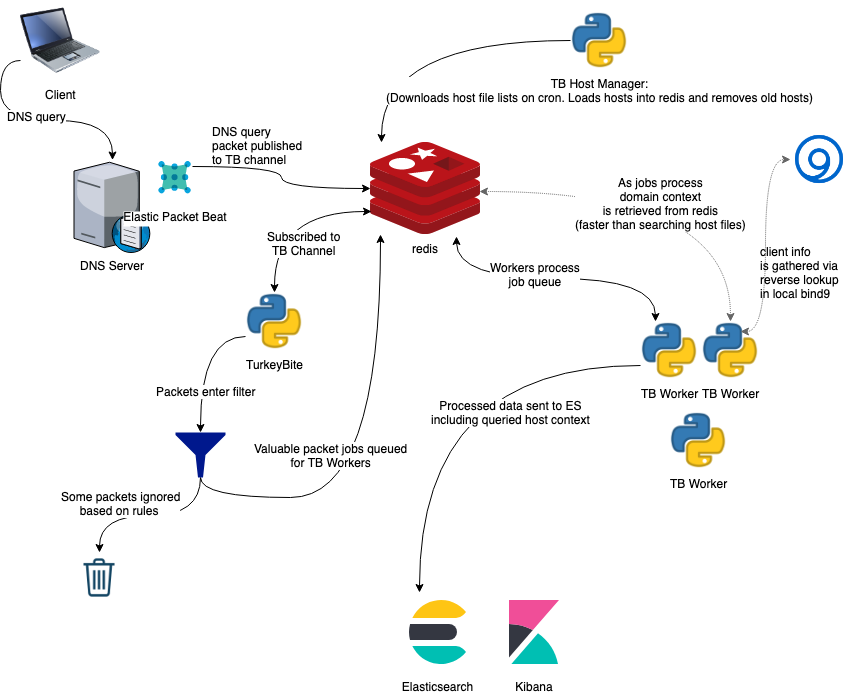
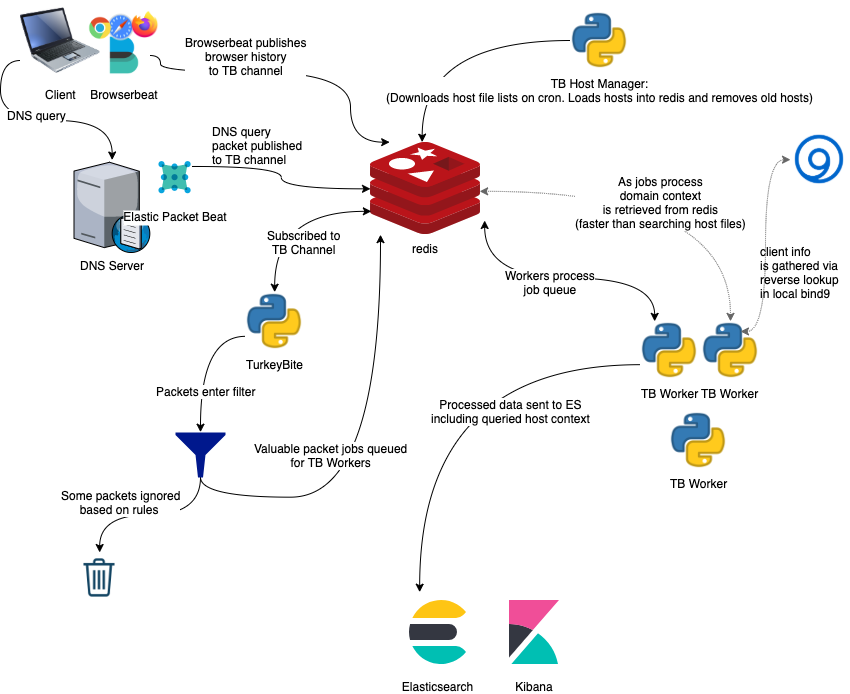
added support for browserbeat

diff --git a/libtb/inlet/__init__.py b/libtb/inlet/__init__.py
@@ -43,11 +43,41 @@ class Inlet(object):
                                 if 'resource' in data.keys():
                                     if 'network' in data.keys():
                                         if 'direction' in data['network'].keys():
-                                            print('Queued: ' + data['resource'] + ' - ' + data['network']['direction'])
+                                            print('Packetbeat][DNS] Queued: ' + data['resource'] + ' - ' +
+                                                  data['network']['direction'])
                                         else:
-                                            print('Queued: ' + data['resource'])
+                                            print('Packetbeat][DNS] Queued: ' + data['resource'])
                                     else:
-                                        print('Queued: ' + data['resource'])
+                                        print('Packetbeat][DNS] Queued: ' + data['resource'])
+                            if data['type'] == 'browser.history':
+                                message = '[Browserbeat][History] Queued'
+                                if 'data' in data.keys():
+                                    if 'event' in data['data'].keys():
+                                        if 'data' in data['data']['event'].keys():
+                                            if 'entry' in data['data']['event']['data'].keys():
+                                                if 'url' in data['data']['event']['data']['entry'].keys():
+                                                    message = ' '.join([
+                                                        message,
+                                                        ':',
+                                                        data['data']['event']['data']['entry']['url']
+                                                    ])
+                                            if 'client' in data['data']['event']['data'].keys():
+                                                if 'user' in data['data']['event']['data']['client'].keys():
+                                                    message = ' '.join([
+                                                        message,
+                                                        '-',
+                                                        data['data']['event']['data']['client']['user']
+                                                    ])
+                                                if 'Hostname' in data['data']['event']['data']['client'].keys():
+                                                    if 'short' in data['data']['event']['data']['client'][
+                                                        'Hostname'].keys():
+                                                        message = ' '.join([
+                                                            message,
+                                                            '-',
+                                                            data['data']['event']['data']['client']['Hostname']['short']
+                                                        ])
+                                print(message)
+
                         worker_queue.enqueue(self.processor.process_packet, data)
                     else:
                         if 'type' in data.keys():
@@ -55,11 +85,40 @@ class Inlet(object):
                                 if 'resource' in data.keys():
                                     if 'network' in data.keys():
                                         if 'direction' in data['network'].keys():
-                                            print('Dropped: ' + data['resource'] + ' - ' + data['network']['direction'])
+                                            print('[Packetbeat][DNS] Dropped: ' + data['resource'] + ' - ' +
+                                                  data['network']['direction'])
                                         else:
-                                            print('Dropped: ' + data['resource'])
+                                            print('Packetbeat][DNS] Dropped: ' + data['resource'])
                                     else:
-                                        print('Dropped: ' + data['resource'])
+                                        print('Packetbeat][DNS] Dropped: ' + data['resource'])
+                            if data['type'] == 'browser.history':
+                                message = '[Browserbeat][History] Dropped'
+                                if 'data' in data.keys():
+                                    if 'event' in data['data'].keys():
+                                        if 'data' in data['data']['event'].keys():
+                                            if 'entry' in data['data']['event']['data'].keys():
+                                                if 'url' in data['data']['event']['data']['entry'].keys():
+                                                    message = ' '.join([
+                                                        message,
+                                                        ':',
+                                                        data['data']['event']['data']['entry']['url']
+                                                    ])
+                                            if 'client' in data['data']['event']['data'].keys():
+                                                if 'user' in data['data']['event']['data']['client'].keys():
+                                                    message = ' '.join([
+                                                        message,
+                                                        '-',
+                                                        data['data']['event']['data']['client']['user']
+                                                    ])
+                                                if 'Hostname' in data['data']['event']['data']['client'].keys():
+                                                    if 'short' in data['data']['event']['data']['client'][
+                                                        'Hostname'].keys():
+                                                        message = ' '.join([
+                                                            message,
+                                                            '-',
+                                                            data['data']['event']['data']['client']['Hostname']['short']
+                                                        ])
+                                print(message)
                 except json.JSONDecodeError:
                     # Ignore json errors
                     pass

diff --git a/libtb/processor/__init__.py b/libtb/processor/__init__.py
@@ -1,5 +1,6 @@
 from _datetime import datetime
 import json
+from dateutil import *
 from elasticsearch import Elasticsearch
 from redis import Redis
 from dns import reversename, resolver, exception
@@ -14,6 +15,8 @@ class Processor(object):
     def process_packet(self, data):
         if data['type'] == 'dns':
             self.process_dns_packet(data)
+        if data['type'] == 'browser.history':
+            self.process_browser_history(data)
         else:
             return False
 
@@ -120,6 +123,108 @@ class Processor(object):
         }
 
         # Ship the turkey bite to elastic
+        self.ship_bite(bite)
+
+    def process_browser_history(self, data):
+        # Related context from lists
+        contexts = []
+        # Domain names to search
+        searches = []
+        # The request direction
+        request = None
+        # The request timestamp
+        timestamp = data['data']['@timestamp']
+        localtime = data['data']['@timestamp']
+        # Redis DB with host lists
+        r = Redis(
+            host=self.redis_conf['host'],
+            port=self.redis_conf['port'],
+            password=self.redis_conf['password'],
+            db=self.redis_conf['host_list_db']
+        )
+
+        if 'data' in data.keys():
+
+            if '@processed' in data['data'].keys():
+                if data['data']['event']['data']['client']['browser'] == 'safari':
+                    # safari stores data in local time not UTC we need to convert
+                    # From the processed time we can tell the local time zone of the client
+                    processed = datetime.strptime(data['data']['@processed'], '%Y-%m-%dT%H:%M:%S.%f%z')
+                    # Create a datetime object from the local time
+                    local = datetime.strptime(data['data']['@timestamp'], '%Y-%m-%dT%H:%M:%SZ')
+                    # Set the timezone on the localtime object from the processed time
+                    local = local.replace(tzinfo=tz.gettz(str(processed.tzinfo)))
+                    localtime = local.strftime('%Y-%m-%dT%H:%M:%S%Z')
+                    # Convert to UTC
+                    utc_time = local.astimezone(tz.tzutc())
+                    # Set the UTC time to match other browsers
+                    timestamp = utc_time.strftime('%Y-%m-%dT%H:%M:%SZ')
+                    data['data']['@timestamp'] = timestamp
+                elif data['data']['event']['data']['client']['browser'] in ['chrome', 'firefox']:
+                    # Chrome & Firefox do not provide the local time
+                    # From the processed time we can tell the local time zone of the client
+                    processed = datetime.strptime(data['data']['@processed'], '%Y-%m-%dT%H:%M:%S.%f%z')
+                    # Parse the UTC time
+                    utc = datetime.strptime(data['data']['@timestamp'], '%Y-%m-%dT%H:%M:%SZ')
+                    utc.replace(tzinfo=tz.tzutc())
+                    # Convert the UTC time to the local timezone found in @processed
+                    local = utc.astimezone(tz.gettz(str(processed.tzinfo)))
+                    localtime = local.strftime('%Y-%m-%dT%H:%M:%S%Z')
+
+            if 'event' in data['data'].keys():
+                if 'data' in data['data']['event'].keys():
+                    if 'entry' in data['data']['event']['data'].keys():
+                        if 'url' in data['data']['event']['data']['entry'].keys():
+                            searches.append(data['data']['event']['data']['entry']['url'])
+                        if 'url_data' in data['data']['event']['data']['entry'].keys():
+                            if 'Scheme' in data['data']['event']['data']['entry']['url_data'].keys():
+                                request = data['data']['event']['data']['entry']['url_data']['Scheme']
+                            if 'Host' in data['data']['event']['data']['entry']['url_data'].keys():
+                                host = data['data']['event']['data']['entry']['url_data']['Host'].strip().lower()
+                                if host:
+                                    if ':' in host:
+                                        # Deal with hosts that have a port in the string
+                                        host = host.split(':')[0]
+                                searches.append(host)
+                                domain = host
+                                if '.' in host:
+                                    parts = host.split('.')
+                                    domain = '.'.join([parts[len(parts - 2)], parts[len(parts - 1)]])
+                                if domain != host:
+                                    searches.append(domain)
+
+        # Get the current tag
+        tag = r.get('turkey-bite:current-tag')
+        if tag:
+            tag = tag.decode('utf-8')
+            for entry in searches:
+                # Build the redis key
+                key = 'turkey-bite:' + tag + ':' + entry
+                # Search redis for the queried domain
+                result = r.get(key)
+                if result:
+                    result = json.loads(result.decode('utf-8'))
+                    # Add any unique categories to the context array
+                    contexts = contexts + list(set(result['categories']) - set(contexts))
+
+        bite = {
+            '@timestamp': timestamp,
+            '@metadata': {
+                'beat': 'turkeybite',
+                'type': '_doc',
+                'version': '0.1.0'
+            },
+            'bite': {
+                'processed': datetime.now().isoformat(),
+                'event_time_utc': timestamp,
+                'event_time_local': localtime,
+                'requested': searches,
+                'contexts': contexts,
+                'request': request,
+                'type': 'browser.history'
+            },
+            'packet': data
+        }
         self.ship_bite(bite)
 
     def ship_bite(self, bite):

diff --git a/libtb/sieve/__init__.py b/libtb/sieve/__init__.py
@@ -1,11 +1,12 @@
 class Filters(object):
     # Packet types we care about
-    packets = ['dns']
+    packets = ['dns', 'browser.history']
     valids = ['OK']
 
     def __init__(self, config):
         self.config = config
 
+    # Packetbeat DNS filters
     def dns(self, data):
         # If we are filtering invalid packets
         if self.config['drop_error_packets']:
@@ -59,6 +60,70 @@ class Filters(object):
         # If we made it here, we're good
         return True
 
+    # Browserbeat filters
+    def browserbeat(self, data):
+        ignore_clients = self.config['browserbeat']['ignore']['clients']
+        ignore_users = self.config['browserbeat']['ignore']['users']
+        ignore_doamins = self.config['browserbeat']['ignore']['domains']
+        ignore_hosts = self.config['browserbeat']['ignore']['hosts']
+
+        # Dive down into the data structure
+        if 'data' in data.keys():
+            if 'event' in data['data'].keys():
+                if 'data' in data['data']['event'].keys():
+
+                    # Client level rules
+                    if 'client' in data['data']['event']['data'].keys():
+
+                        # Filter ignored client hostnames
+                        if 'Hostname' in data['data']['event']['data']['client'].keys():
+                            # Filter fqdn hostname
+                            if 'hostname' in data['data']['event']['data']['client']['Hostname'].keys():
+                                if data['data']['event']['data']['client']['Hostname']['hostname'] in ignore_clients:
+                                    return False
+                            # Filter short hostname
+                            if 'short' in data['data']['event']['data']['client']['Hostname'].keys():
+                                if data['data']['event']['data']['client']['Hostname']['short'] in ignore_clients:
+                                    return False
+
+                        # Filter ignored IPs
+                        if 'ip_addresses' in data['data']['event']['data']['client'].keys():
+                            for ip in data['data']['event']['data']['client']['ip_addresses']:
+                                if ip in ignore_clients:
+                                    return False
+
+                        # Filter ignored users
+                        if 'user' in data['data']['event']['data']['client'].keys():
+                            if data['data']['event']['data']['client']['user'] in ignore_users:
+                                return False
+
+                    # History entry level rules
+                    if 'entry' in data['data']['event']['data'].keys():
+                        if 'url_data' in data['data']['event']['data']['entry'].keys():
+                            if 'Host' in data['data']['event']['data']['entry']['url_data'].keys():
+                                host = data['data']['event']['data']['entry']['url_data']['Host']
+                                if host:
+                                    if ':' in host:
+                                        # Deal with hosts that have a port in the string
+                                        host = host.split(':')[0]
+                                    # Should we ignore this host
+                                    if host in ignore_hosts:
+                                        return False
+                                    # Deal with ignored domains
+                                    domain = host
+                                    if '.' in host:
+                                        parts = host.split('.')
+                                        domain = '.'.join([parts[len(parts - 2)], parts[len(parts - 1)]])
+                                    if domain in ignore_doamins:
+                                        return False
+
+        else:
+            # If we get here we aren't user how to process this
+            return False
+
+        # If we made it here, we're good
+        return True
+
     def should_process(self, data):
         # Ensure that the data is now a dict
         if isinstance(data, dict):
@@ -69,6 +134,9 @@ class Filters(object):
                     # different filters for different packet types
                     if data['type'] == 'dns':
                         return self.dns(data)
+                    elif data['type'] == 'browser.history':
+                        return self.browserbeat(data)
                     else:
                         return False
+        # If we made it here, we don't want this packet
         return False

diff --git a/README.md b/README.md
@@ -4,7 +4,7 @@
 
 A domain and host context analysis pipeline.
 
-TurkeyBite analyzes DNS query packets to glean some context into each request. TB allows you to identify clients who are requesting domains associated with anything from porn to gambling to shopping and everything in between.
+TurkeyBite analyzes client network traffic to glean some context into each request. TB allows you to identify clients who are requesting domains associated with anything from porn to gambling to shopping and everything in between.
 
 ### Whats under the hood?
 
@@ -13,7 +13,7 @@ TurkeyBite relies on the following technologies
 * Python3
 * Redis
 * Bind9
-* Packetbeat
+* [Packetbeat](https://www.elastic.co/products/beats/packetbeat) and/or [Browserbeat](https://github.com/MelonSmasher/browserbeat)
 * Elasticsearch
 * Kibana
 * Domain and host lists from many sources
@@ -26,11 +26,15 @@ In practice the analysis pipeline looks like this:
 
 As of right now I have tested this with a Microsoft DNS server and I am running this in production with multiple Bind9 servers. Since Packetbeat is used to grab and send packets to Redis this should work with any DNS server that can also run Packetbeat.
 
+### What browsers does this work with?
+
+Any browsers that [Browserbeat](https://github.com/MelonSmasher/browserbeat) supports should work with TurkeyBite.
+
 ### Will this block clients?
 
 Short answer: no.
 
-Long answer: TB is an analysis tool not a DNS based blocking tool. For something like that check out [pi-hole](https://pi-hole.net/). In theory there is no reason why you couldn't run both pi-hole and TB in tandem. TB is designed to be as unobtrusive as possible so that it's implementation impact is never felt by clients.
+Long answer: TB is an analysis tool not a blocking tool. For something like that check out [pi-hole](https://pi-hole.net/). In theory there is no reason why you couldn't run both pi-hole and TB in tandem. TB is designed to be as unobtrusive as possible so that it's implementation impact is never felt by clients.
 
 ## Setup
 
